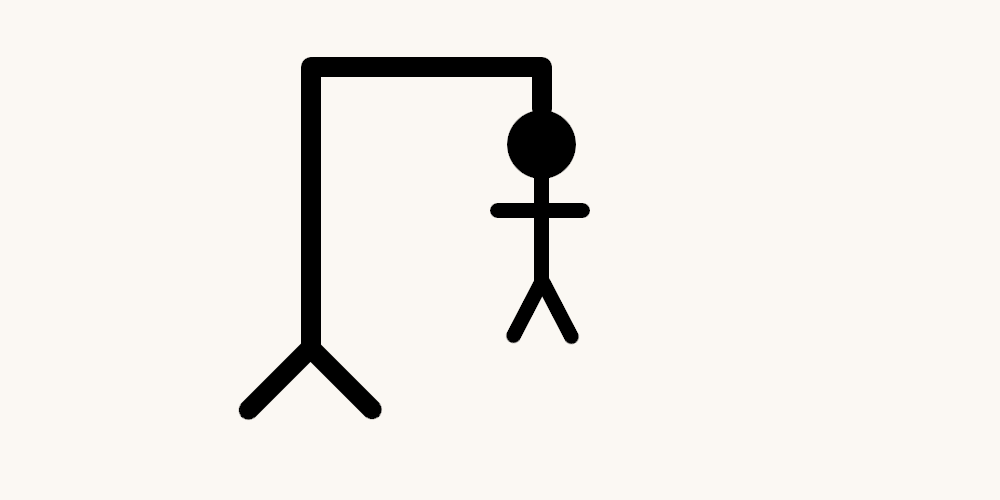
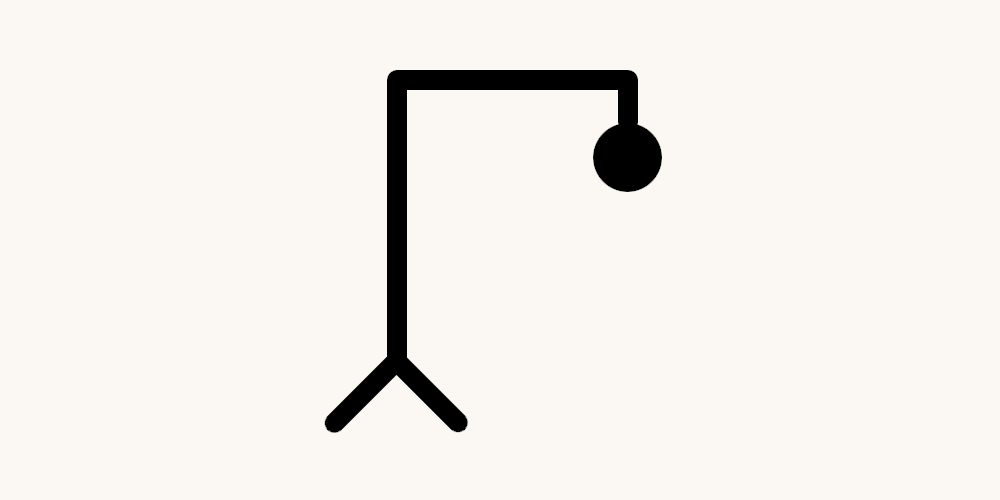
reveal word when player loses

Changed region(s): [[0.217, 0.09, 0.682, 0.87]]

diff --git a/src/components/Game.js b/src/components/Game.js
@@ -6,7 +6,7 @@ import ChosenLetters from "./ChosenLetters.js";
 import EndMessage from "./EndMessage.js";
 
 function Game() {
-  const [word, setWord] = useState("hangman");
+  const [word, setWord] = useState("");
   const [chosenLetters, setChosenLetters] = useState([]);
   const [score, setScore] = useState(0);
   const [endMessage, setEndMessage] = useState("");
@@ -44,7 +44,7 @@ function Game() {
 
   return (
     <div id="game">
-      <Word word={word} chosenLetters={chosenLetters} />
+      <Word word={word} chosenLetters={chosenLetters} running={running} />
       <Hangman score={score} />
       {userInput}
       <ChosenLetters chosenLetters={chosenLetters} word={word} />

diff --git a/src/components/Word.js b/src/components/Word.js
@@ -1,6 +1,6 @@
 import Letter from "./Letter.js";
 
-function Word({ word, chosenLetters }) {
+function Word({ word, chosenLetters, running }) {
   const letters = word.split("");
   let i = 0;
   return (
@@ -10,7 +10,7 @@ function Word({ word, chosenLetters }) {
           <Letter
             key={i++}
             char={letter}
-            visible={chosenLetters.includes(letter)}
+            visible={chosenLetters.includes(letter) || !running}
           />
         );
       })}

diff --git a/src/components/Form.js b/src/components/Form.js
@@ -10,6 +10,7 @@ function Form({
 }) {
   const [input, setInput] = useState("");
   const [msg, setMsg] = useState("");
+  const losingScore = 6;
 
   const handleSubmit = (event) => {
     event.preventDefault();
@@ -27,7 +28,7 @@ function Form({
     });
     setScore((score) => {
       if (!word.split("").includes(input)) score++;
-      if (score === 5) {
+      if (score === losingScore) {
         setRunning(false);
         setEndMessage("You have lost");
       }

diff --git a/src/App.css b/src/App.css
@@ -50,7 +50,8 @@ input {
   color: green;
 }
 
-#chosen-letters .failure {
+#chosen-letters .failure,
+.game-over {
   color: red;
   text-decoration: line-through;
 }
